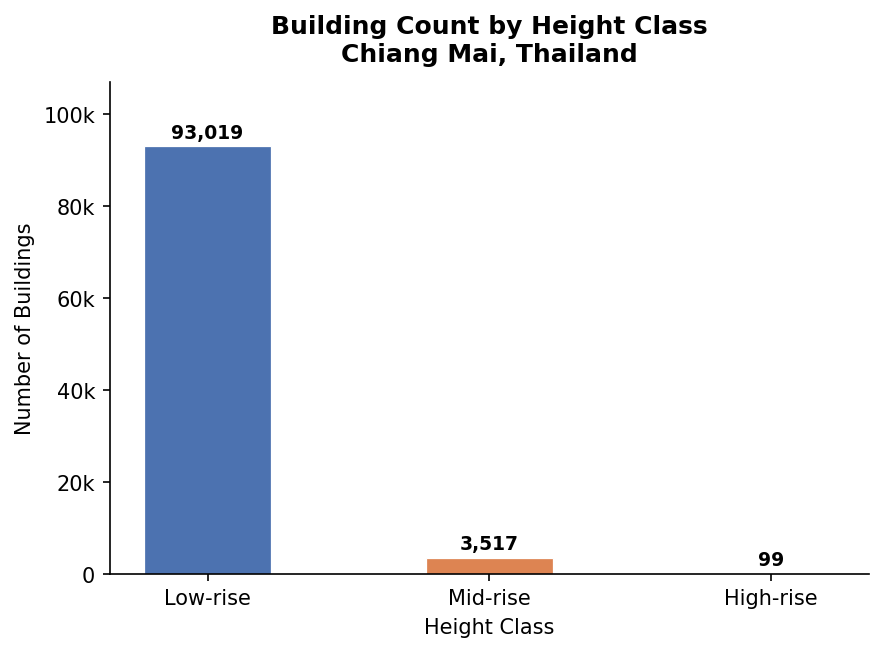
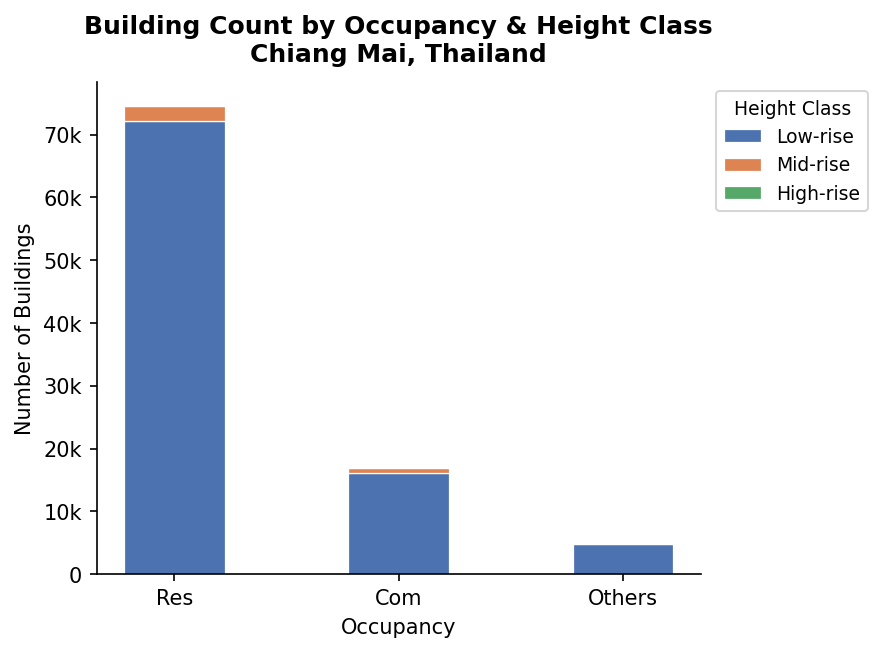
Fix height class chart: stacked bars by occupancy (Res/Com/Others) × 3 height classes

diff --git a/scripts/analyze.py b/scripts/analyze.py
@@ -203,31 +203,30 @@ plt.tight_layout()
 plt.savefig(os.path.join(OUT_DIR, "expo_occ_buildings.png"), dpi=150, bbox_inches="tight")
 plt.close()
 
-# ── Fig 3: Height class distribution (bar, 3 categories) ───────────────────
+# ── Fig 3: Height class by occupancy (stacked bar, 3×3) ────────────────────
 print("Plotting expo_story_class.png ...")
-grp_ht3 = (df.groupby("STORY_3CAT")
-             .agg(BUILDINGS=("BLDGID","count"),
-                  TOTAL_AREA_SQM=("FL_AREA","sum"))
-             .reset_index()
-             .rename(columns={"STORY_3CAT":"HEIGHT_CLASS"}))
-grp_ht3 = grp_ht3.set_index("HEIGHT_CLASS").reindex(["Low-rise","Mid-rise","High-rise"]).reset_index()
-COLORS_HT = {"Low-rise":"#4C72B0","Mid-rise":"#DD8452","High-rise":"#55A868"}
+pivot_ht = (df.groupby(["OCC_3CAT","STORY_3CAT"])
+              .agg(BUILDINGS=("BLDGID","count"))
+              .reset_index()
+              .pivot(index="OCC_3CAT", columns="STORY_3CAT", values="BUILDINGS")
+              .reindex(index=["Res","Com","Others"],
+                       columns=["Low-rise","Mid-rise","High-rise"])
+              .fillna(0))
+COLORS_HT = ["#4C72B0","#DD8452","#55A868"]
 fig, ax = plt.subplots(figsize=(6, 4.5))
-ht_plot = grp_ht3.set_index("HEIGHT_CLASS")["BUILDINGS"]
-bars = ax.bar(ht_plot.index, ht_plot.values,
-              color=[COLORS_HT.get(h,"#999") for h in ht_plot.index],
-              edgecolor="white", linewidth=0.6, width=0.45)
-for bar in bars:
-    h = bar.get_height()
-    ax.text(bar.get_x() + bar.get_width()/2, h + ht_plot.max()*0.01,
-            f"{h:,.0f}", ha="center", va="bottom", fontsize=9, fontweight="bold")
-ax.set_title("Building Count by Height Class\nChiang Mai, Thailand",
+bottom = np.zeros(len(pivot_ht))
+for col, color in zip(pivot_ht.columns, COLORS_HT):
+    ax.bar(pivot_ht.index, pivot_ht[col], bottom=bottom,
+           label=col, color=color, edgecolor="white", linewidth=0.6, width=0.45)
+    bottom += pivot_ht[col].values
+ax.set_title("Building Count by Occupancy & Height Class\nChiang Mai, Thailand",
              fontsize=12, fontweight="bold", pad=10)
-ax.set_xlabel("Height Class", fontsize=10)
+ax.set_xlabel("Occupancy", fontsize=10)
 ax.set_ylabel("Number of Buildings", fontsize=10)
 ax.yaxis.set_major_formatter(mticker.FuncFormatter(fmt_k))
+ax.legend(title="Height Class", bbox_to_anchor=(1.01, 1), loc="upper left",
+          fontsize=9, title_fontsize=9)
 ax.spines[["top","right"]].set_visible(False)
-ax.set_ylim(0, ht_plot.max() * 1.15)
 plt.tight_layout()
 plt.savefig(os.path.join(OUT_DIR, "expo_story_class.png"), dpi=150, bbox_inches="tight")
 plt.close()